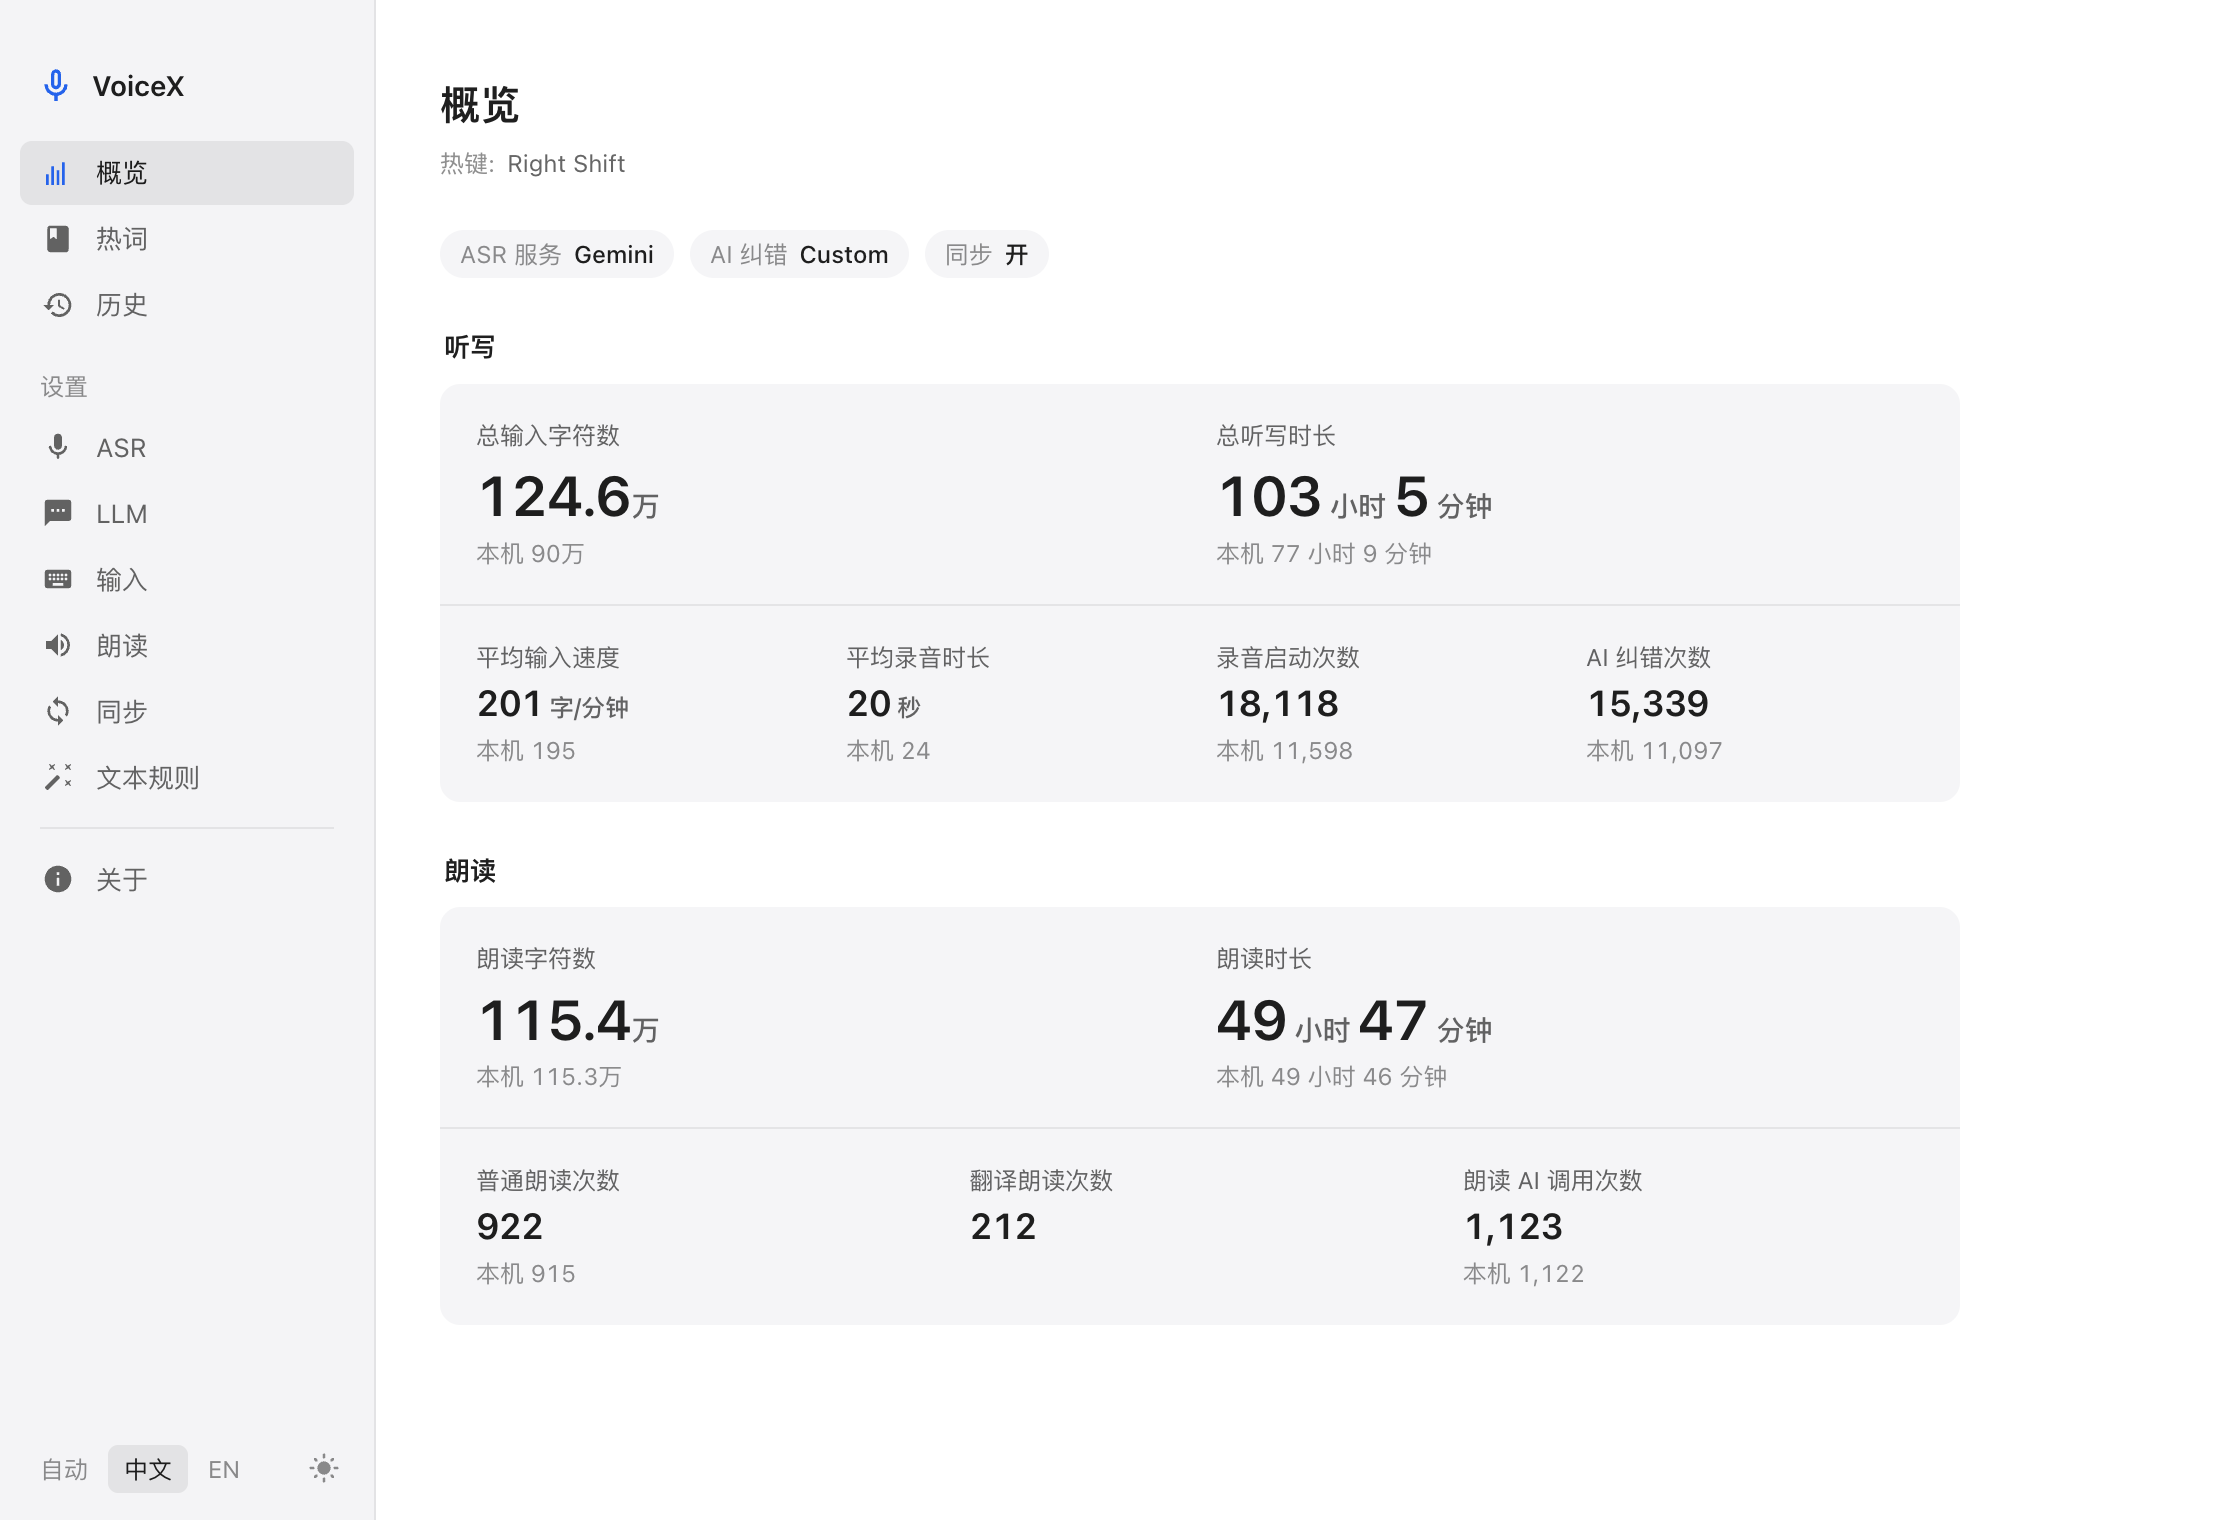
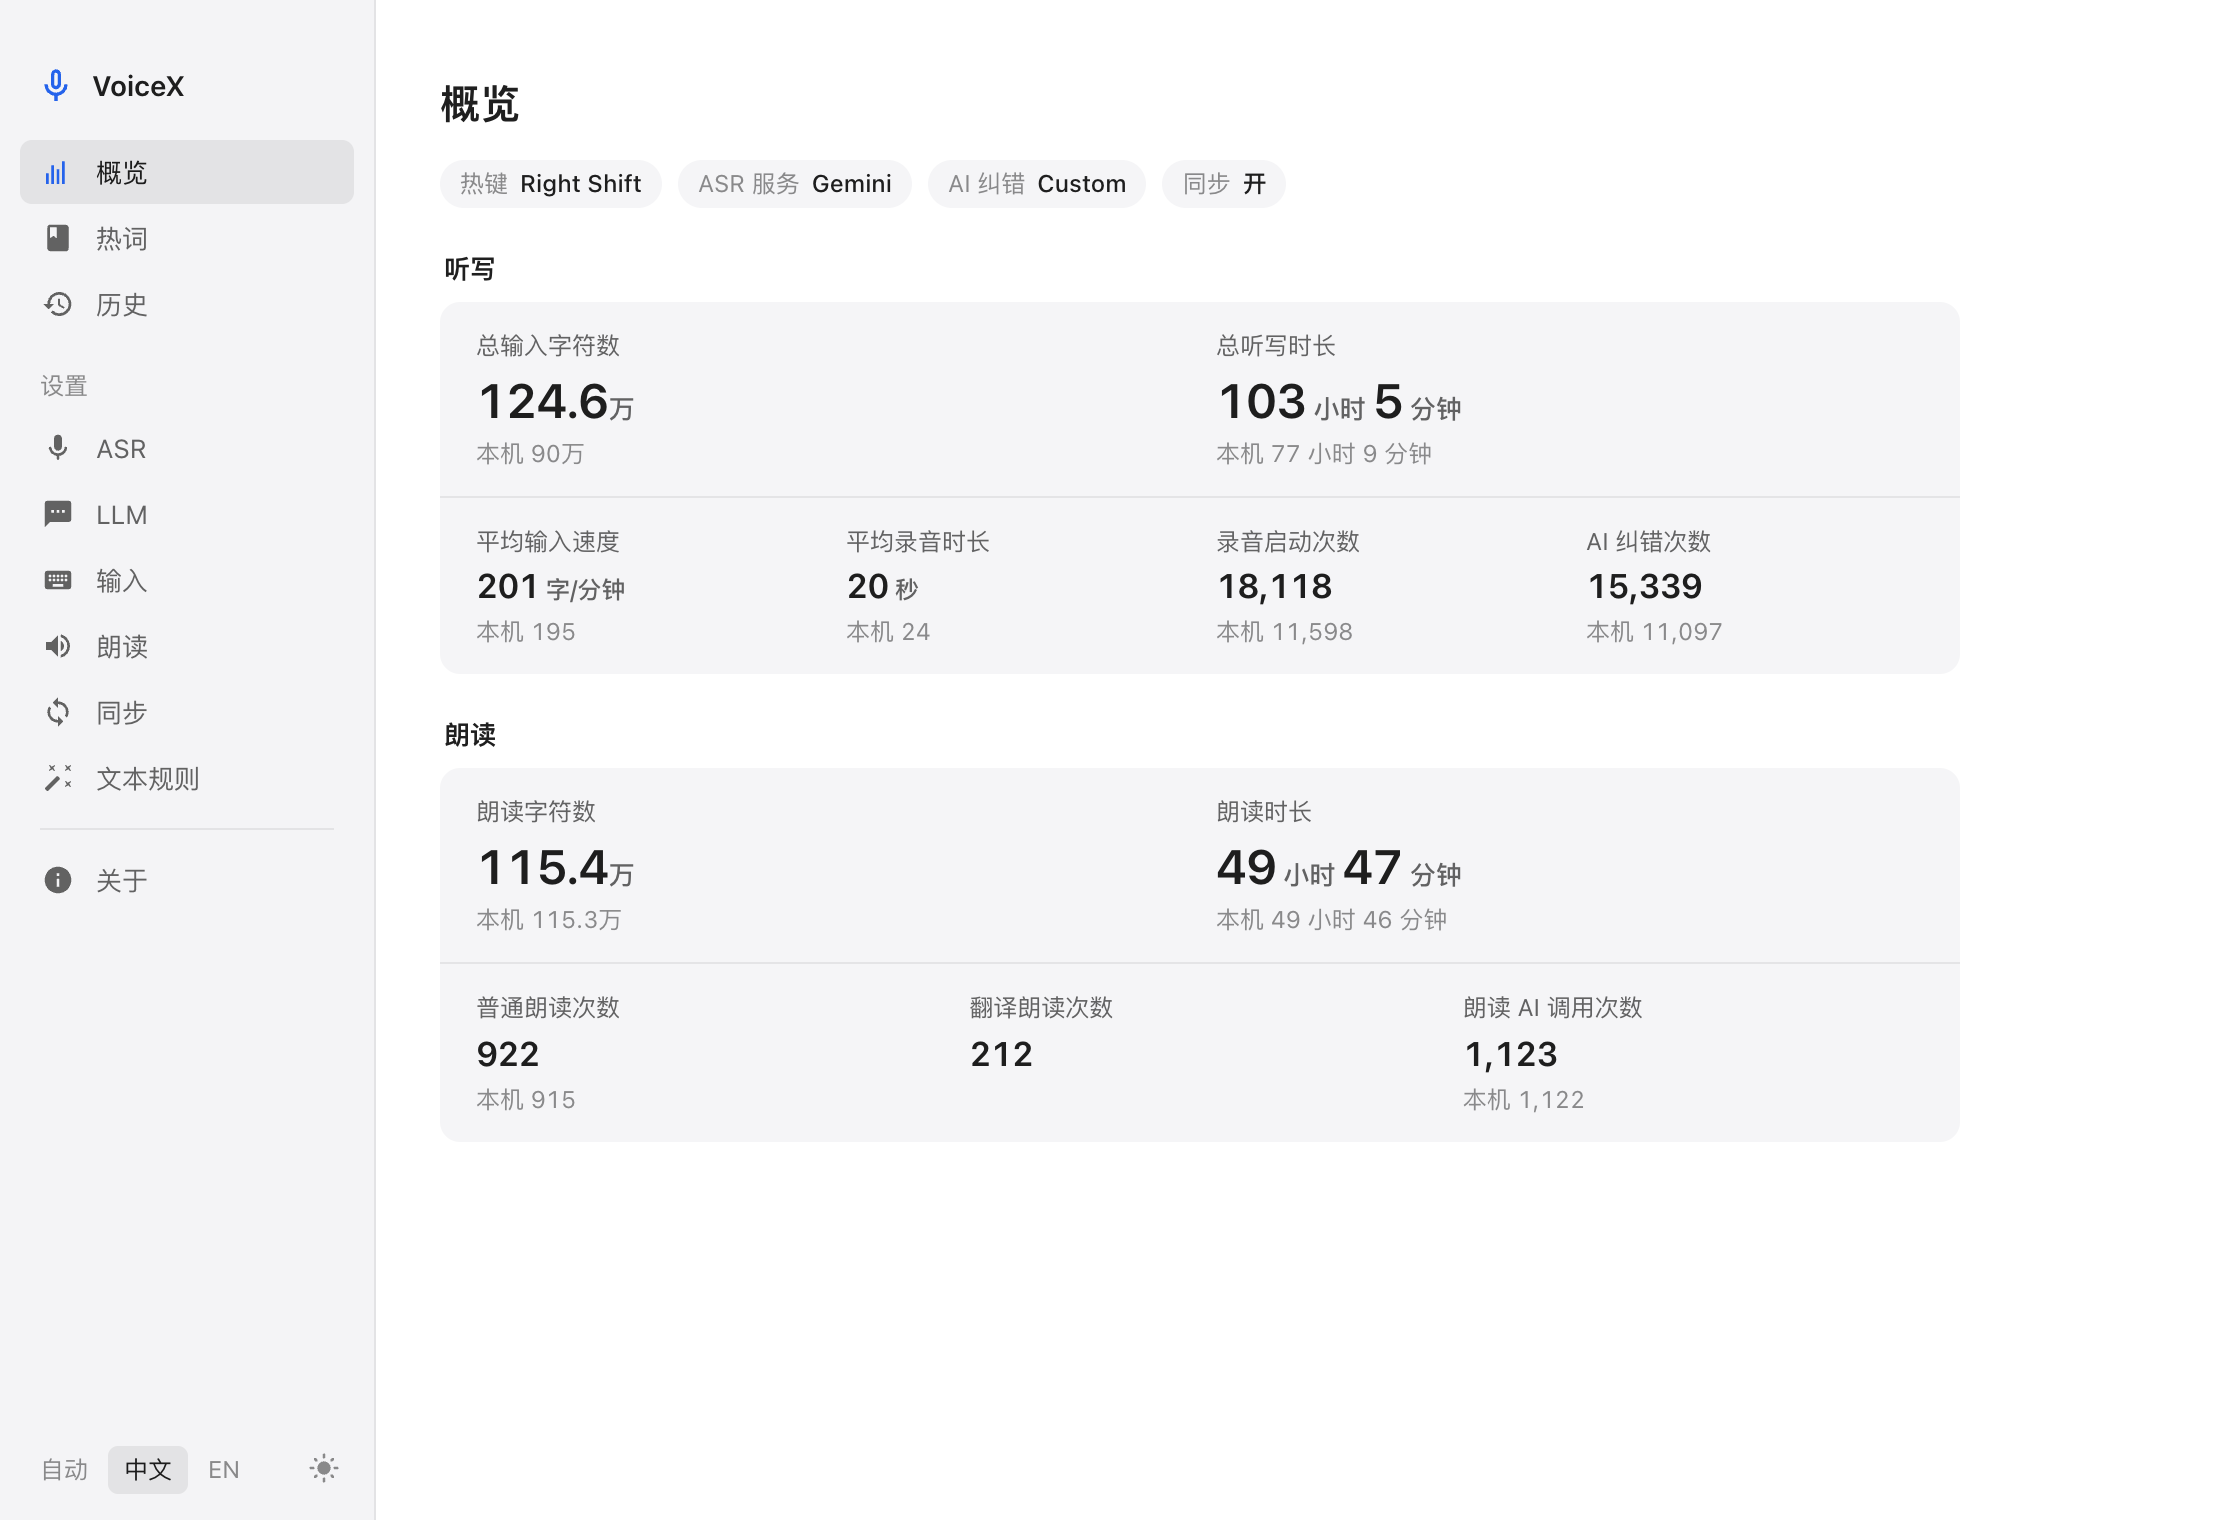
docs: describe per-provider dictionary use and refresh screenshots
Explain that speech recognition sends the dictionary only to engines with
their switch on (Gemini starts off; Cohere, MiMo and Coli take none), that
ElevenLabs uses it only after recording, and that LLM correction is
unaffected. Recapture the Overview and ASR screenshots for the new status
row and dictionary switch.

Let the caption HUD paint after resizing before capturing it; capturing
immediately could produce a blank, fully transparent image.

diff --git a/scripts/screenshots/capture.js b/scripts/screenshots/capture.js
@@ -90,6 +90,9 @@ async (page) => {
       const bounds = await capturePage.evaluate(() => window.__readmeHudBounds)
       await capturePage.setViewportSize(bounds)
       await capturePage.evaluate(() => document.fonts.ready)
+      // Let the resized frame paint; capturing right away can return a blank,
+      // fully transparent image.
+      await capturePage.waitForTimeout(400)
       if (errors.length) throw new Error(errors.join('\n'))
       await capturePage.screenshot({ path: `assets/screenshots/${lang}/reading-caption.png`, animations: 'disabled', omitBackground: true })
     }

diff --git a/README.en.md b/README.en.md
@@ -200,7 +200,7 @@ Choose an engine and model and adjust its parameters on the **ASR** page; each p
 | StepAudio (StepFun) | After recording | Default `stepaudio-3-asr-max`; recordings up to 30 minutes |
 | Xiaomi MiMo | After recording | `mimo-v2.5-asr` |
 | OpenAI | Cloud realtime / after recording | `gpt-live-transcribe` / `gpt-transcribe`; the dictionary is sent as keywords; multiple languages |
-| ElevenLabs | Cloud realtime / after recording | `scribe_v2_realtime` / `scribe_v2`; optional full-recording refinement after realtime |
+| ElevenLabs | Cloud realtime / after recording | `scribe_v2_realtime` / `scribe_v2`; optional full-recording refinement after realtime; the dictionary is sent only after recording, not during realtime |
 | [Coli](https://www.npmjs.com/package/@marswave/coli) | Local, offline | SenseVoice / Whisper based; installed separately |
 | Qwen3-ASR (Local) | Local, offline | Alibaba's open-weight model, fully offline; see below |
 
@@ -236,7 +236,7 @@ curl -L -C - --retry 8 -o ~/models/qwen3-asr-0.6b/model.safetensors "https://hug
 Worth knowing:
 
 - **Force Language defaults to Chinese; keep it set.** With auto-detect, the model may switch to English output partway through a sentence.
-- **Dictionary biasing is on by default** and clearly helps with proper nouns; up to 60 entries.
+- **The dictionary is on by default** and clearly helps with proper nouns. It is passed in the model's prompt, so it can occasionally over-match; only the first 60 entries are used.
 - Text appears after you release the hotkey, usually within a second for short sentences. Spoken numbers are not converted to digits.
 
 ## LLM
@@ -261,7 +261,7 @@ Optionally have an LLM correct or translate the recognized text. Choose a provid
 
 ## Dictionary and replacement rules
 
-- **Dictionary** — one word per line, used both as recognition hot words and as LLM context.
+- **Dictionary** — one word per line. Speech recognition passes it to an engine as hints only when **Use hotwords / dictionary for this provider** is on for that engine on the ASR page. The switch is saved per engine and is on by default, except for Google Gemini, where it starts off because the model can echo the word list during silence. Cohere, Xiaomi MiMo, and Coli do not take a dictionary. LLM correction uses the dictionary regardless of this switch.
 - **Replacement rules** — exact, contains, or regex rules applied to the text before it is typed; exact matches ignore trailing punctuation.
 - **Short-sentence punctuation** — trailing punctuation is removed from short sentences, with an adjustable length threshold.
 

diff --git a/README.md b/README.md
@@ -200,7 +200,7 @@ cargo run --manifest-path src-tauri/Cargo.toml --bin voicex-tts -- notes.md --tr
 | StepAudio（阶跃星辰） | 录完识别 | 默认 `stepaudio-3-asr-max`；单次录音最长 30 分钟 |
 | 小米 MiMo | 录完识别 | `mimo-v2.5-asr` |
 | OpenAI | 云端实时 / 录完识别 | `gpt-live-transcribe` / `gpt-transcribe`；词典作为关键词传入；支持多语种 |
-| ElevenLabs | 云端实时 / 录完识别 | `scribe_v2_realtime` / `scribe_v2`；可在录音结束后整段精修 |
+| ElevenLabs | 云端实时 / 录完识别 | `scribe_v2_realtime` / `scribe_v2`；可在录音结束后整段精修；词典只在录完识别时传入，实时阶段不使用 |
 | [Coli](https://www.npmjs.com/package/@marswave/coli) | 本地离线 | 基于 SenseVoice / Whisper，需单独安装 |
 | Qwen3-ASR（本地） | 本地离线 | 阿里开源模型，完全离线；见下文 |
 
@@ -236,7 +236,7 @@ curl -L -C - --retry 8 -o ~/models/qwen3-asr-0.6b/model.safetensors "https://hug
 几点说明：
 
 - **强制语种默认中文，建议保持。** 设为自动检测时，模型可能在句子中途切换成英文输出。
-- **词典增强默认开启**，对专有名词帮助明显，最多 60 条。
+- **词典默认开启**，对专有名词帮助明显。词典通过提示词传给模型，偶尔会过度匹配；只使用前 60 条。
 - 松开热键后整段出字，短句通常 1 秒内返回；不会把「一千两百三十」转成「1230」。
 
 ## 大模型（LLM）
@@ -261,7 +261,7 @@ curl -L -C - --retry 8 -o ~/models/qwen3-asr-0.6b/model.safetensors "https://hug
 
 ## 词典与替换规则
 
-- **词典** — 每行一个词，同时作为识别热词和大模型参考。
+- **词典** — 每行一个词。只有在 ASR 页为当前引擎打开「此服务使用热词 / 词典」时，语音识别才会把词典作为提示传给该引擎。开关按引擎分别保存，默认开启；Google Gemini 默认关闭，因为模型可能在静音时复述词表。Cohere、小米 MiMo 和 Coli 不使用词典。大模型纠错使用词典，不受这个开关影响。
 - **替换规则** — 精确、包含或正则匹配，在输入前替换识别结果；精确匹配忽略末尾标点。
 - **短句去标点** — 自动去掉短句末尾的标点，字数阈值可调。
 
